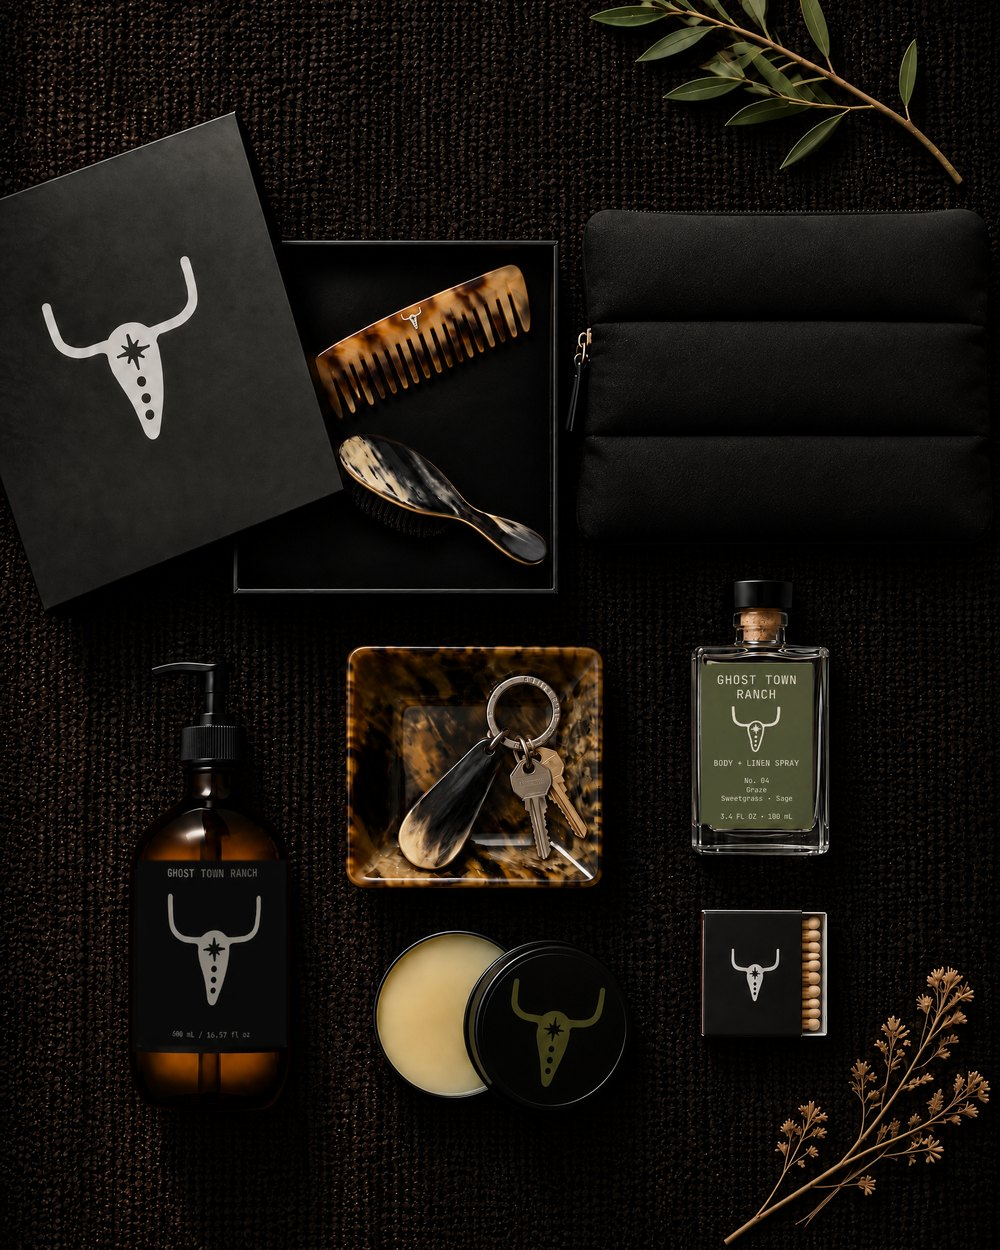
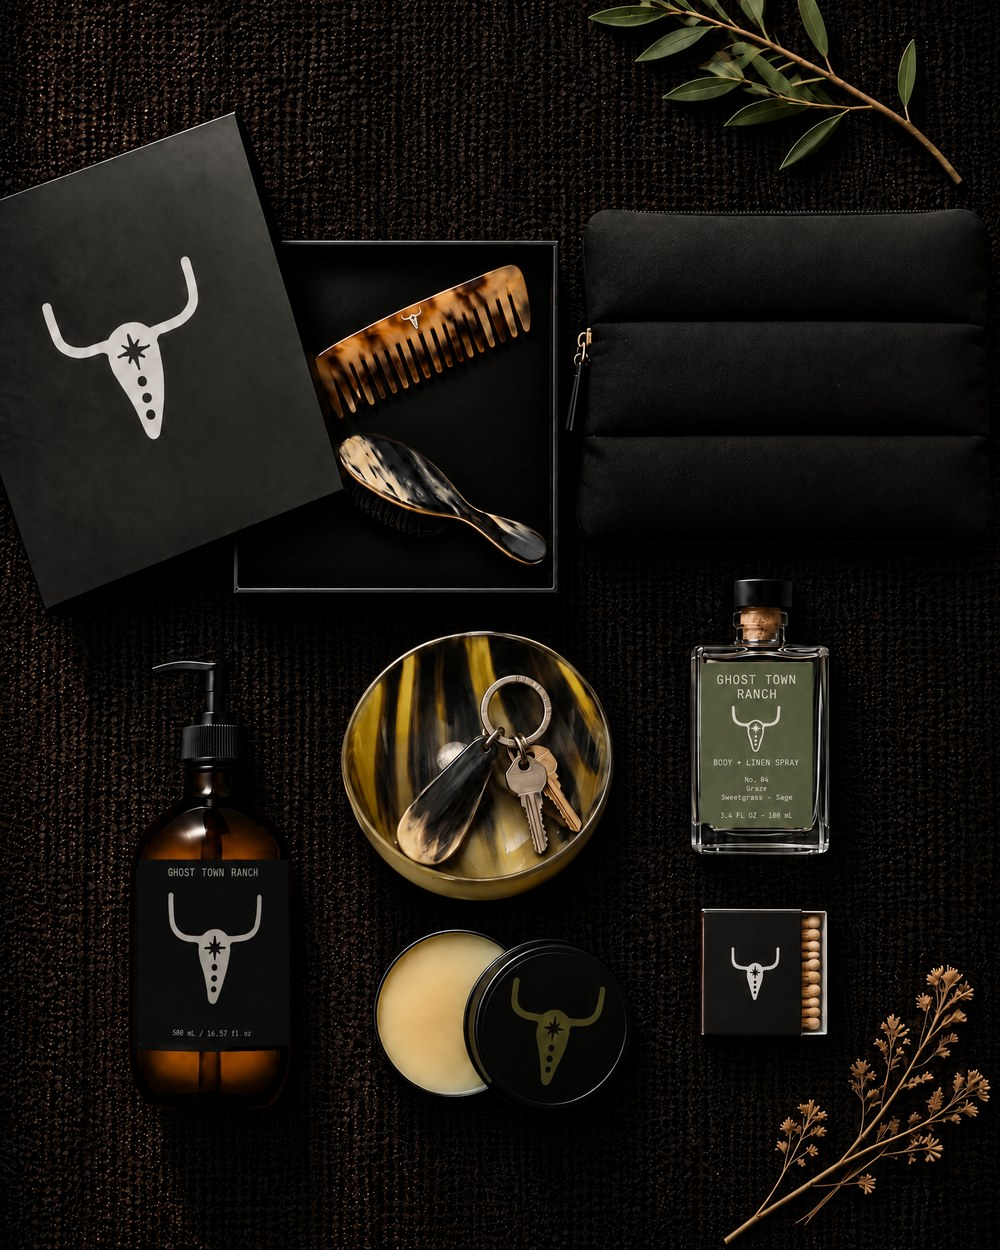
Homepage End of the Day image with horn bowl; new bowl product shot
Claude-Session: https://claude.ai/code/session_01Kby5hTWNJxgsJSYApoRV8r

diff --git a/shop/index.html b/shop/index.html
@@ -284,7 +284,7 @@
         <a class="pcard soon" href="/#coming-spring"><div class="pcard-img"><img src="/media/horn-brush.jpg" alt="Horn and boar bristle hairbrush marked with the Bull" loading="lazy"><span class="soon-badge">Coming Soon</span></div><div class="pcard-name">Horn Hair Brush</div><div class="pcard-sub">Horn + Boar Bristle · Made for GTR in England</div><div class="pcard-price soon-text">Join the waitlist</div></a>
         <a class="pcard soon" href="/#coming-spring"><div class="pcard-img"><img src="/media/horn-shoehorn.jpg" alt="Horn shoehorn marked with the Bull in silver" loading="lazy"><span class="soon-badge">Coming Soon</span></div><div class="pcard-name">Horn Shoehorn</div><div class="pcard-sub">Horn · Made for GTR in England</div><div class="pcard-price soon-text">Join the waitlist</div></a>
         <a class="pcard soon" href="/#coming-spring"><div class="pcard-img"><img src="https://cdn.shopify.com/s/files/1/0984/0174/7240/files/keyringhorn.png?v=1792932286&amp;width=900" alt="Horn shoehorn keyring" loading="lazy"><span class="soon-badge">Coming Soon</span></div><div class="pcard-name">Horn Shoehorn Keyring</div><div class="pcard-sub">Oxhorn · Made for GTR in England</div><div class="pcard-price soon-text">Join the waitlist</div></a>
-        <a class="pcard soon" href="/#coming-spring"><div class="pcard-img"><img src="/media/horn-bowl.jpg" alt="Ox horn bowl, black and amber" loading="lazy"><span class="soon-badge">Coming Soon</span></div><div class="pcard-name">Horn Bowl</div><div class="pcard-sub">Shave bowl or ring dish · 4"</div><div class="pcard-price soon-text">Join the waitlist</div></a>
+        <a class="pcard soon" href="/#coming-spring"><div class="pcard-img"><img src="/media/horn-bowl.jpg?v=2" alt="Ox horn bowl, black and amber" loading="lazy"><span class="soon-badge">Coming Soon</span></div><div class="pcard-name">Horn Bowl</div><div class="pcard-sub">Shave bowl or ring dish · 4"</div><div class="pcard-price soon-text">Join the waitlist</div></a>
         <div class="soon-intro"><div class="soon-intro-label">Guest Ranch</div><div class="soon-intro-title">From the makers we host</div></div>
         <a class="pcard" href="/products/the-bathrobe/"><div class="pcard-img"><img src="" alt="Casamera The Bathrobe" loading="lazy"></div><div class="pcard-name">The Bathrobe</div><div class="pcard-sub">Casamera</div><div class="pcard-price"></div></a>
         <a class="pcard" href="/products/the-house-slipper/"><div class="pcard-img"><img src="" alt="Casamera The House Slipper" loading="lazy"></div><div class="pcard-name">The House Slipper</div><div class="pcard-sub">Casamera</div><div class="pcard-price"></div></a>

diff --git a/guest-ranch/index.html b/guest-ranch/index.html
@@ -491,7 +491,7 @@
     function esc(x) { return String(x == null ? '' : x).replace(/[&<>"']/g, function (c) { return ({'&':'&amp;','<':'&lt;','>':'&gt;','"':'&quot;',"'":'&#39;'})[c]; }); }
     function money(a) { var n = parseFloat(a); return isNaN(n) ? '' : '$' + (n % 1 ? n.toFixed(2) : n.toFixed(0)); }
 
-    var THUMB = { 'Horn Bowl': '/media/horn-bowl.jpg', 'Tamura Body Brush': '/media/tamura-body-brush.jpg', 'Charcoal Facial Puff': '/guest-ranch/morihata-charcoal-puff.jpg', 'Hobo-Stitch Socks': '/guest-ranch/kapital-hobo-socks.jpg', 'Bespoke Hat': '/guest-ranch/shu-atelier-hat-blocks.jpg', 'Temple Flashlight': '/guest-ranch/craighill-temple-white.jpg', 'Stoneware Measuring Cups': '/guest-ranch/be-home-cups.jpg', 'Horn Comb': '/media/horn-comb.jpg', 'Horn Shoehorn': '/media/horn-shoehorn.jpg', 'Horn Valet Tray': '/media/horn-tray.jpg' };
+    var THUMB = { 'Horn Bowl': '/media/horn-bowl.jpg?v=2', 'Tamura Body Brush': '/media/tamura-body-brush.jpg', 'Charcoal Facial Puff': '/guest-ranch/morihata-charcoal-puff.jpg', 'Hobo-Stitch Socks': '/guest-ranch/kapital-hobo-socks.jpg', 'Bespoke Hat': '/guest-ranch/shu-atelier-hat-blocks.jpg', 'Temple Flashlight': '/guest-ranch/craighill-temple-white.jpg', 'Stoneware Measuring Cups': '/guest-ranch/be-home-cups.jpg', 'Horn Comb': '/media/horn-comb.jpg', 'Horn Shoehorn': '/media/horn-shoehorn.jpg', 'Horn Valet Tray': '/media/horn-tray.jpg' };
     function sized(u, w) { return u + (u.indexOf('?') > -1 ? '&' : '?') + 'width=' + w; }
     function row(item, live) {
       var handle = item[0], name = item[1], maker = item[2] || '';

diff --git a/index.html b/index.html
@@ -909,8 +909,8 @@
       <div class="road-cap">Out the Door<span>Day Ride, keyring, brush, Soft Proof, Drawn Line, Dry Creek, Ranch Water</span></div>
     </a>
     <a class="road-tile" href="https://ghosttownranch.com/shop/">
-      <div class="road-media"><img src="/media/collection-end-of-day.jpg" alt="Horn comb and brush in a black Bull box, black Day Ride bag, horn valet tray with the shoehorn keyring, The Wash, Ranch Water in Graze and Beard Butter" loading="lazy"></div>
-      <div class="road-cap">End of the Day<span>Comb, brush, valet tray, keyring, Day Ride, Ranch Water, The Wash, Beard Butter</span></div>
+      <div class="road-media"><img src="/media/collection-end-of-day.jpg?v=2" alt="Horn comb and brush in a black Bull box, black Day Ride bag, horn bowl with the shoehorn keyring, The Wash, Ranch Water in Graze and Beard Butter" loading="lazy"></div>
+      <div class="road-cap">End of the Day<span>Comb, brush, horn bowl, keyring, Day Ride, Ranch Water, The Wash, Beard Butter</span></div>
     </a>
   </div>
 </section>
